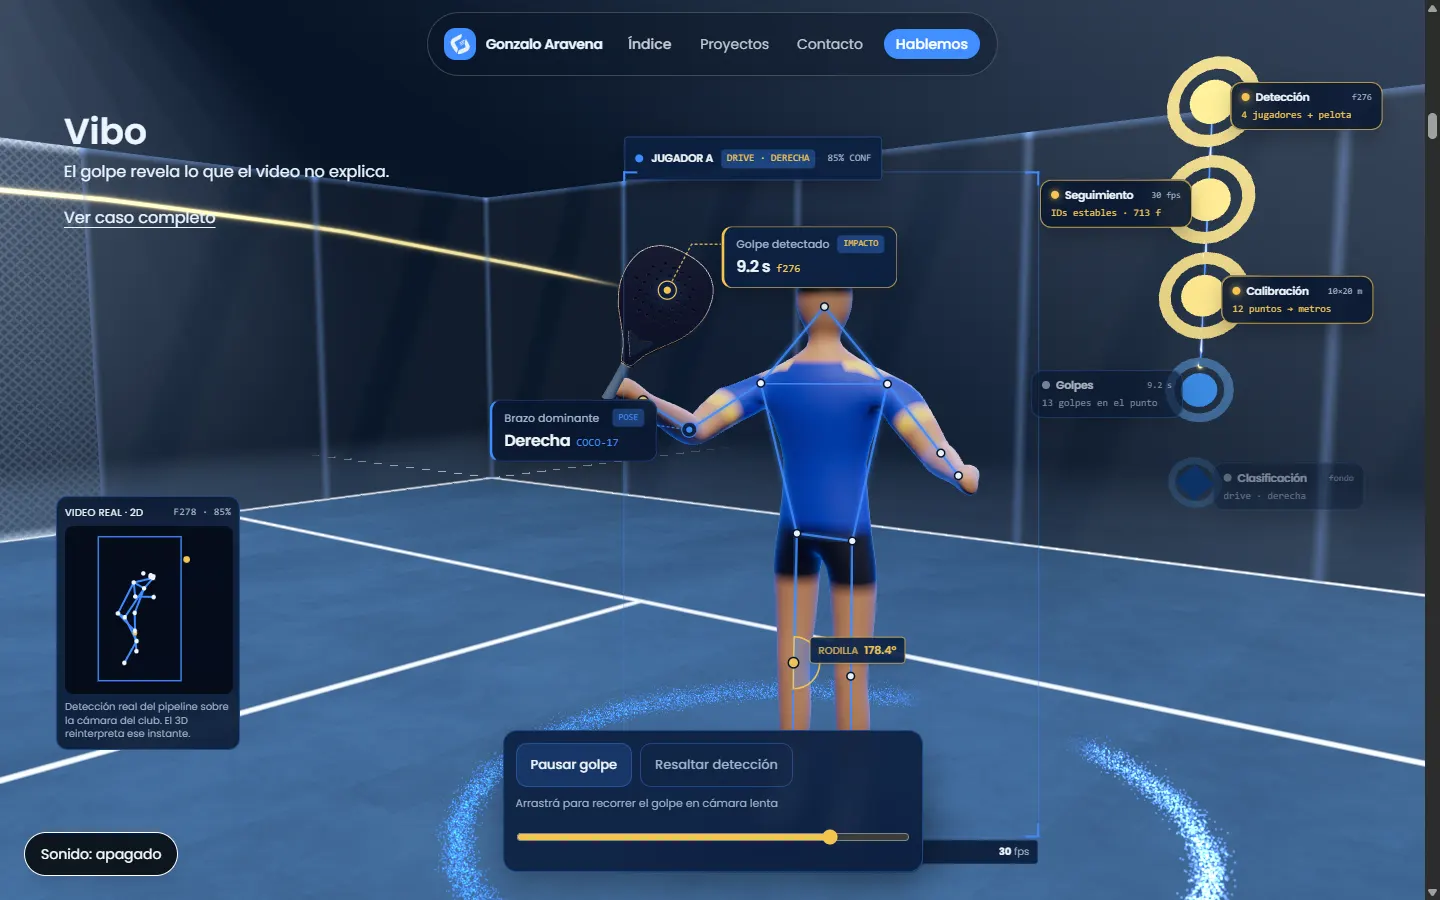
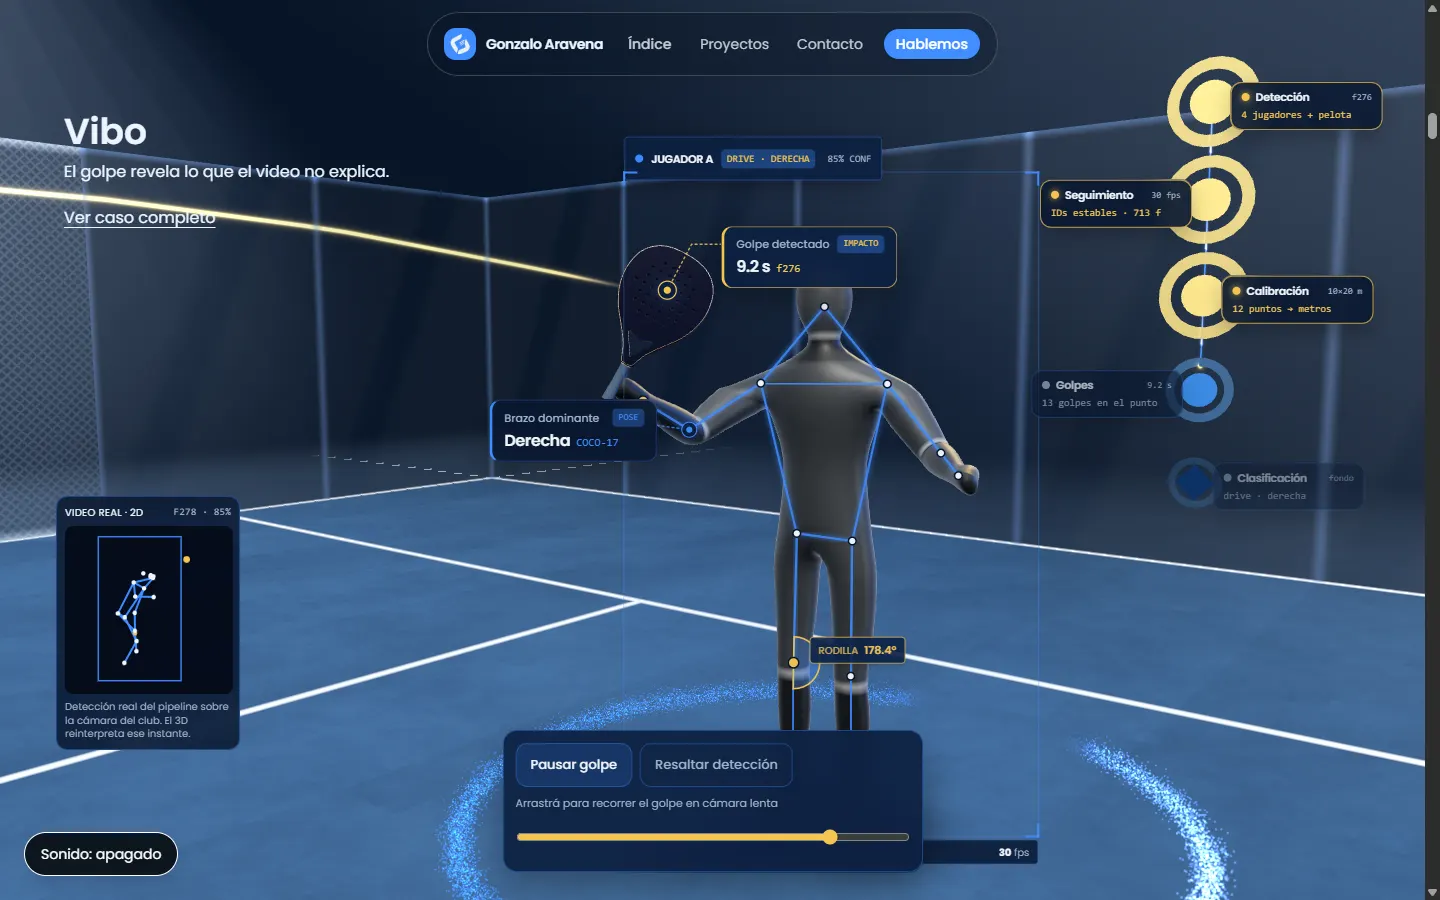
T-A20: jugador como maniquí técnico monocromo (sin colores de escena)

diff --git a/src/scenes/vibo/rig.ts b/src/scenes/vibo/rig.ts
@@ -67,36 +67,40 @@ export function playerUrls(quality: QualityTier) {
   return [`/models/vibo/jugador.${tier}.glb`, `/models/vibo/paleta.${tier}.glb`]
 }
 
-/** Equipación por zona en pose de reposo (A-pose, metros, frente +Z). */
+/** Maniquí técnico monocromo por zona en pose de reposo (A-pose, metros, frente +Z). */
 const KIT = {
-  skin: new Color("#b98566"),
-  hair: new Color("#211a16"),
-  shirt: new Color("#1d4fc4"),
-  shirtTrim: new Color("#f5c451"),
-  shorts: new Color("#0c1630"),
-  sock: new Color("#e9eef5"),
-  shoe: new Color("#f3f5f8"),
-  sole: new Color("#2a3240"),
+  base: new Color("#2c3035"),
+  shell: new Color("#4a5056"),
+  head: new Color("#5d636a"),
+  joint: new Color("#a3a9b0"),
+  sole: new Color("#16191c"),
 }
+
+/** Bandas finas en articulaciones: (centro y, semiancho) en metros. */
+const JOINT_BANDS: [number, number][] = [
+  [0.5, 0.012], // rodillas
+  [1.0, 0.01], // cintura
+  [1.58, 0.01], // cuello
+]
 
 function kitColor(p: Vector3, out: Color): Color {
   const ax = Math.abs(p.x)
   const y = p.y
   if (y < 0.035) return out.copy(KIT.sole)
-  if (y < 0.11) return out.copy(KIT.shoe)
-  if (y < 0.24) return out.copy(KIT.sock)
-  // Brazos: fuera del torso. Manga corta hasta ~20 cm del hombro.
+  if (y < 0.11) return out.copy(KIT.base)
+  // Brazos: carcasa en el brazo, banda en el codo.
   if (ax > 0.21 && y > 0.78) {
-    const shoulder = Math.hypot(ax - 0.2, y - 1.44)
-    if (shoulder < 0.2) return out.copy(shoulder > 0.175 ? KIT.shirtTrim : KIT.shirt)
-    return out.copy(KIT.skin)
+    const fromShoulder = Math.hypot(ax - 0.2, y - 1.44)
+    if (Math.abs(fromShoulder - 0.29) < 0.012) return out.copy(KIT.joint)
+    return out.copy(fromShoulder < 0.29 ? KIT.shell : KIT.base)
   }
-  if (y < 0.79) return out.copy(KIT.skin)
-  if (y < 1.0) return out.copy(y > 0.975 ? KIT.shirtTrim : KIT.shorts)
-  if (y < 1.5) return out.copy(y > 1.47 && Math.abs(p.z) < 0.06 ? KIT.shirtTrim : KIT.shirt)
-  // Cabeza: pelo arriba y en la nuca.
-  if (y > 1.71 || (y > 1.6 && p.z < -0.035)) return out.copy(KIT.hair)
-  return out.copy(KIT.skin)
+  for (const [center, half] of JOINT_BANDS) {
+    if (Math.abs(y - center) < half) return out.copy(KIT.joint)
+  }
+  if (y > 1.58) return out.copy(KIT.head)
+  // Carcasas: muslos y torso más claros que la base.
+  if ((y > 0.52 && y < 0.98) || (y > 1.02 && y < 1.5)) return out.copy(KIT.shell)
+  return out.copy(KIT.base)
 }
 
 /** Medidas del modelo fuente (metros) para deshacer la cuantización del GLB. */
@@ -148,7 +152,7 @@ export type RimUniforms = {
 }
 
 export function createRim(): RimUniforms {
-  return { uRimColor: { value: new Color("#3d8bff") }, uRim: { value: 0.6 } }
+  return { uRimColor: { value: new Color("#c4ccd4") }, uRim: { value: 0.35 } }
 }
 
 /** Fresnel de contorno estilo replay: refuerza la separación del fondo. */
@@ -206,9 +210,9 @@ export function buildRig(scene: Group, animations: AnimationClip[], rim: RimUnif
   })
   const body = new MeshStandardMaterial({
     vertexColors: true,
-    roughness: 0.62,
-    metalness: 0,
-    envMapIntensity: 0.55,
+    roughness: 0.48,
+    metalness: 0.2,
+    envMapIntensity: 0.7,
   })
   addRim(body, rim)
   const frame = restFrame(meshes)
@@ -237,6 +241,10 @@ export function buildRacket(scene: Group): Racket {
     if (!mesh.isMesh) return
     const mat = mesh.material as MeshStandardMaterial
     mat.envMapIntensity = 1.1
+    // Grises con la misma luminancia: conserva el contraste marco/cara sin color.
+    mat.color.setHSL(0, 0, mat.color.getHSL({ h: 0, s: 0, l: 0 }).l)
+    mat.map?.dispose()
+    mat.map = null
     materials.push(mat)
   })
   // Paleta +Y (cabeza) → eje +Z del socket; cara hacia el frente del golpe.

diff --git a/src/scenes/vibo/Scene.tsx b/src/scenes/vibo/Scene.tsx
@@ -625,8 +625,8 @@ export default function ViboScene(props: SceneProps) {
   )
 }
 
-const GOLD = new Color("#f5c451")
-const BLUE = new Color("#3d8bff")
+const RIM_IDLE = new Color("#c4ccd4")
+const RIM_FOCUS = new Color("#ffffff")
 
 type Runtime = ReturnType<typeof createRuntime>
 
@@ -740,8 +740,8 @@ function animateScene(rt: Runtime, f: AnimateFrame) {
   if (f.key) f.key.intensity = 3.6 * lit * court.dim
 
   const rim = rt.rim
-  rim.uRim.value = MathUtils.lerp(rim.uRim.value, 0.6 + (f.highlight ? 1.4 : 0), 0.12)
-  rim.uRimColor.value.lerp(f.highlight ? GOLD : BLUE, 0.12)
+  rim.uRim.value = MathUtils.lerp(rim.uRim.value, 0.35 + (f.highlight ? 0.9 : 0), 0.12)
+  rim.uRimColor.value.lerp(f.highlight ? RIM_FOCUS : RIM_IDLE, 0.12)
 
   // Panel e inserto 2D: visibles solo durante el golpe.
   const panel = rt.panel

diff --git a/docs/plan/evidencias/T-A20/README.md b/docs/plan/evidencias/T-A20/README.md
@@ -4,7 +4,7 @@
 
 Escena de primera línea **Vibo** (`03` §3.1, ADR-011 + enmienda estética) sobre el ritmo del greybox T-A14:
 
-- **Jugador estilizado-realista:** `jugador.glb` (T-A20-jugador, 6.464 tris, 23 huesos) + `paleta.glb` (T-A20-paleta) optimizados por nivel (meshopt + cuantización). Equipación por zonas de color de vértice (camiseta azul con detalles dorados, short marino, piel, calzado), material PBR semi-mate con rim de contorno (fresnel) que se intensifica en dorado con «Resaltar detección». La volea real del rig se combina con capas procedurales (carga de piernas, giro de tronco) restaurando la pose de reposo cada frame.
+- **Jugador como maniquí técnico:** `jugador.glb` (T-A20-jugador, 6.464 tris, 23 huesos) + `paleta.glb` (T-A20-paleta) optimizados por nivel (meshopt + cuantización). Acabado monocromo sobrio por zonas de color de vértice (base grafito, carcasas de torso/muslos/brazos más claras, bandas finas en rodillas, codos, cintura y cuello), PBR satinado (roughness 0,48, metalness 0,2) y paleta en grises de igual luminancia. El rim de contorno es neutro y «Resaltar detección» lo lleva a blanco: el personaje no usa la paleta de la escena, que queda para el HUD. La volea real del rig se combina con capas procedurales (carga de piernas, giro de tronco) restaurando la pose de reposo cada frame.
 - **Cancha nocturna broadcast:** líneas que se dibujan, reflectores que encienden en cascada con conos volumétricos, cristales templados y malla, key spot cálido + rim azul/dorado + hemisférica de relleno.
 - **Beats:**
   - `mundo` — líneas trazadas y reflectores encendiéndose; el hilo dibuja el contorno de la cancha y se cierra en un halo alrededor del jugador.
